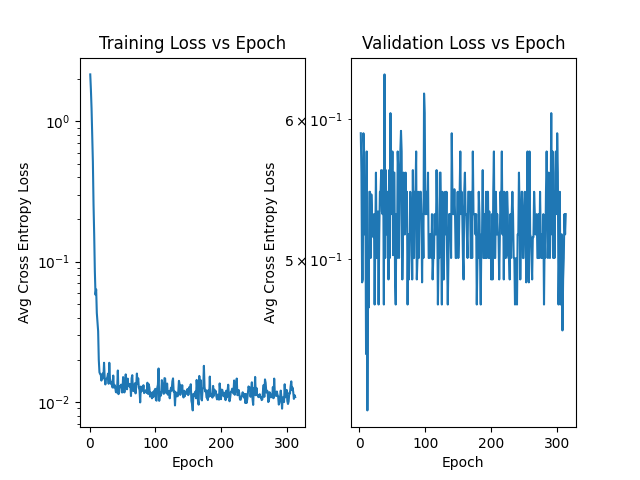
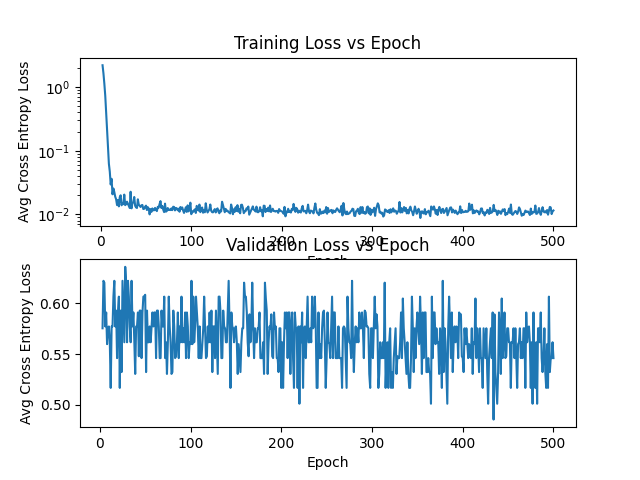
new tokens

diff --git a/auto-labeler/scibert/test.py b/auto-labeler/scibert/test.py
@@ -71,22 +71,21 @@ def predict_random_sample():
 def plot_training():
     last = torch.load('epochs/last_saved.pt')
     df = pd.DataFrame(last['training_stats'])
-    plt.figure(figsize=(8,6),dpi=150)
-    fig, ax = plt.subplots(1,2)
+    plt.figure(figsize=(16,15),dpi=150)
+    fig, ax = plt.subplots(2,1)
     ax[0].plot(df['epoch'],df['Training Loss'])    
     ax[0].set_xlabel('Epoch')
     ax[0].set_ylabel('Avg Cross Entropy Loss')   
     ax[0].set_yscale('log')
     ax[0].set_title('Training Loss vs Epoch')
-
+    
     ax[1].plot(df['epoch'][1:],df['Valid. Accur.'][1:])    
     ax[1].set_xlabel('Epoch')
     ax[1].set_ylabel('Avg Cross Entropy Loss')
-    ax[1].set_yscale('log')
     ax[1].set_title('Validation Loss vs Epoch')
     plt.savefig('training_loss.png')
     
 
 if __name__ == '__main__':
     plot_training()
-    predict_random_sample()
+    # predict_random_sample()

diff --git a/auto-labeler/scibert/auto_labeler_prototype_scibert.py b/auto-labeler/scibert/auto_labeler_prototype_scibert.py
@@ -81,6 +81,7 @@ def setup_dataset():
     print("Number of test docs: {:}".format(len(docs_test)))
     
     tokenizer = AutoTokenizer.from_pretrained("allenai/scibert_scivocab_uncased")
+
     print('SciBERT tokenizer loaded')
 
     # original abstract
